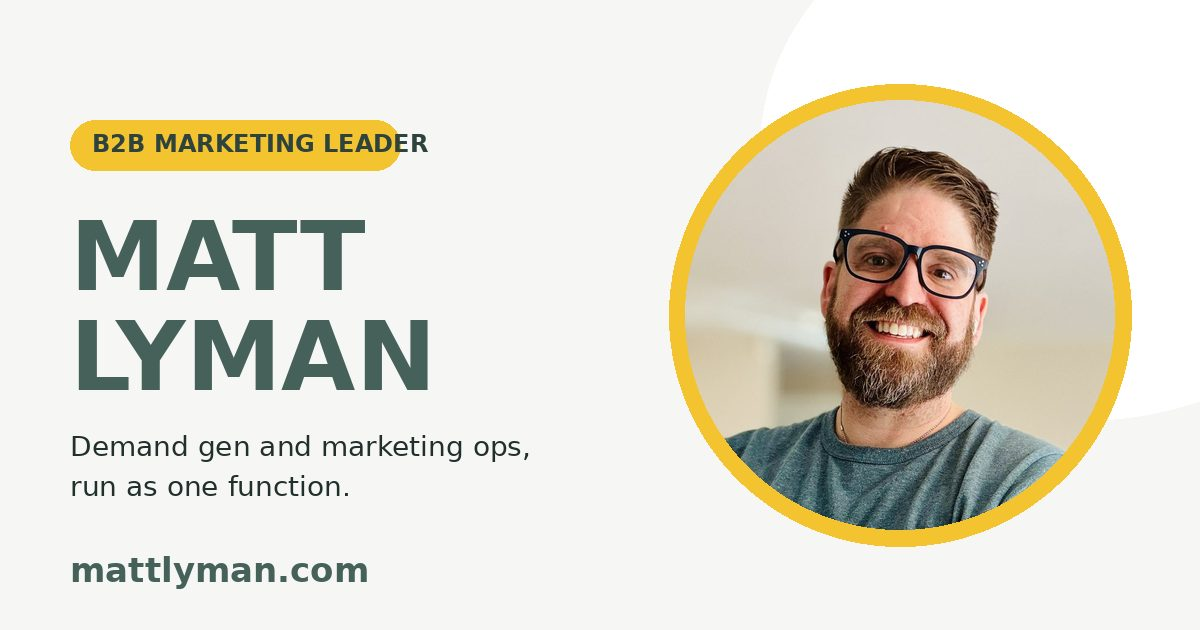
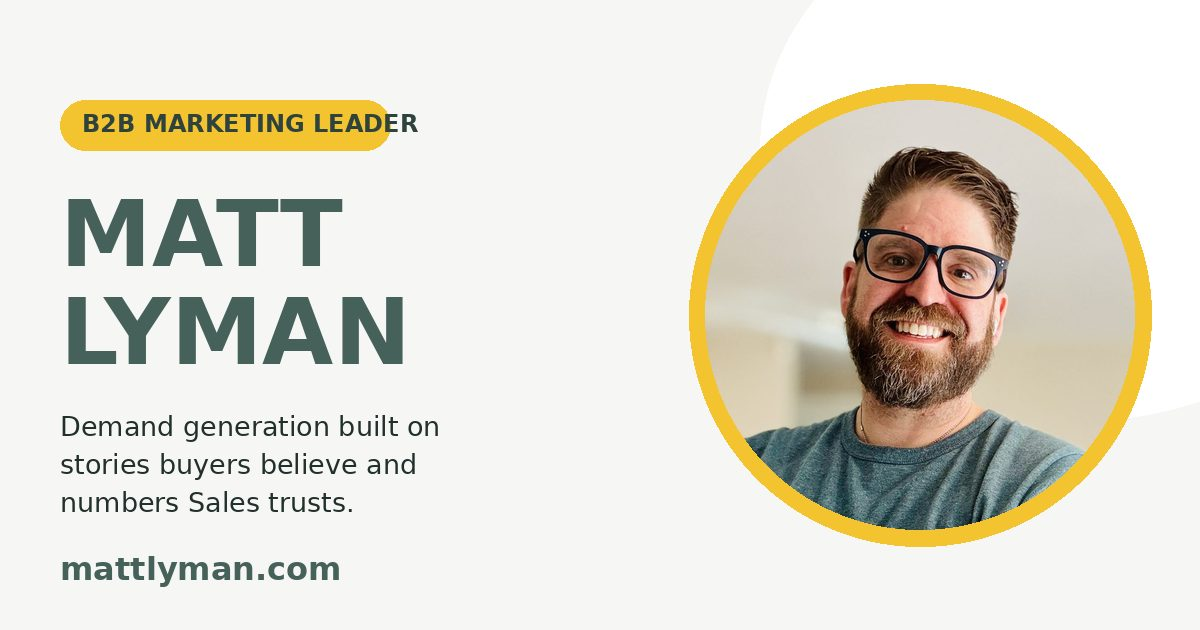
Sticky nav, About and AI copy rewrite, Chef title, unified skills layout
Claude-Session: https://claude.ai/code/session_01WRYQ3Ln2MV56FoJT3TQhna

diff --git a/index.html b/index.html
@@ -3,13 +3,13 @@
 <head>
 <meta charset="utf-8">
 <meta name="viewport" content="width=device-width, initial-scale=1">
-<title>Matt Lyman | B2B Marketing Leader, Demand Generation and Marketing Ops</title>
+<title>Matt Lyman | B2B Marketing Leader, Demand Generation</title>
 <meta name="description" content="Marketing leader with nearly 20 years in marketing. Most recently VP of Marketing at Flosum. Seattle, remote.">
 <link rel="canonical" href="https://mattlyman.com/">
 <meta name="author" content="Matt Lyman">
 <meta name="robots" content="index, follow, max-image-preview:large">
 <meta property="og:type" content="profile">
-<meta property="og:title" content="Matt Lyman | B2B Marketing Leader, Demand Generation and Marketing Ops">
+<meta property="og:title" content="Matt Lyman | B2B Marketing Leader, Demand Generation">
 <meta property="og:description" content="Marketing leader with nearly 20 years in marketing. Most recently VP of Marketing at Flosum. Seattle, remote.">
 <meta property="og:url" content="https://mattlyman.com/">
 <meta property="og:image" content="https://mattlyman.com/images/og-image.jpg">
@@ -19,7 +19,7 @@
 <meta property="profile:first_name" content="Matt">
 <meta property="profile:last_name" content="Lyman">
 <meta name="twitter:card" content="summary_large_image">
-<meta name="twitter:title" content="Matt Lyman | B2B Marketing Leader, Demand Generation and Marketing Ops">
+<meta name="twitter:title" content="Matt Lyman | B2B Marketing Leader, Demand Generation">
 <meta name="twitter:description" content="Marketing leader with nearly 20 years in marketing. Most recently VP of Marketing at Flosum. Seattle, remote.">
 <meta name="twitter:image" content="https://mattlyman.com/images/og-image.jpg">
 <link rel="icon" href="/favicon.svg" type="image/svg+xml">
@@ -45,7 +45,7 @@
    "@type": "ProfilePage",
    "@id": "https://mattlyman.com/#webpage",
    "url": "https://mattlyman.com/",
-   "name": "Matt Lyman | B2B Marketing Leader, Demand Generation and Marketing Ops",
+   "name": "Matt Lyman | B2B Marketing Leader, Demand Generation",
    "isPartOf": {
     "@id": "https://mattlyman.com/#website"
    },
@@ -64,7 +64,7 @@
    "url": "https://mattlyman.com/",
    "image": "https://mattlyman.com/images/matt-headshot.jpg",
    "jobTitle": "B2B Marketing Leader",
-   "description": "B2B marketing leader with nearly 20 years in marketing, specializing in demand generation and marketing operations. Most recently VP of Marketing at Flosum.",
+   "description": "B2B marketing leader with nearly 20 years in marketing, specializing in demand generation, with hands-on marketing operations and AI skills behind it. Most recently VP of Marketing at Flosum.",
    "address": {
     "@type": "PostalAddress",
     "addressLocality": "Seattle",
@@ -89,7 +89,9 @@
     "Lead scoring",
     "Marketing attribution",
     "B2B SaaS marketing",
-    "Team leadership"
+    "Team leadership",
+    "AI agents for marketing",
+    "Generative AI"
    ],
    "alumniOf": [
     {
@@ -220,7 +222,7 @@
      "name": "Who is Matt Lyman?",
      "acceptedAnswer": {
       "@type": "Answer",
-      "text": "Matt Lyman is a B2B marketing leader based in Seattle with nearly 20 years in marketing, specializing in demand generation and marketing operations. He has served as VP of Marketing at Flosum, VP of Demand Generation at LeanData, and Director of Demand Generation at Chef Software, where the revenue team grew about 2.7x through the company's acquisition by Progress."
+      "text": "Matt Lyman is a B2B marketing leader based in Seattle with nearly 20 years in marketing, specializing in demand generation, with hands-on marketing operations and AI skills behind it. He has served as VP of Marketing at Flosum, VP of Demand Generation at LeanData, and Director of Revenue Marketing at Chef Software, where the revenue team grew about 2.7x through the company's acquisition by Progress."
      }
     },
     {
@@ -228,7 +230,7 @@
      "name": "What does Matt Lyman do?",
      "acceptedAnswer": {
       "@type": "Answer",
-      "text": "He is a B2B marketing leader who runs demand generation and marketing operations as one function. He has built demand engines across paid media, ABM, SEO, events, and content at Chef, LeanData, and Flosum."
+      "text": "He is a B2B marketing leader who builds demand generation programs around buyer stories and the data to prove they work. He has built demand engines across paid media, ABM, SEO, events, and content at Chef, LeanData, and Flosum, and builds with AI every day."
      }
     },
     {
@@ -253,6 +255,14 @@
      "acceptedAnswer": {
       "@type": "Answer",
       "text": "At Flosum, Matt ran ABM across 51 named accounts and 10 AEs. Target accounts clicked at 3 to 7x the campaign average, and 7 became opportunities within five months. He also led an SEO and GEO/AEO rebuild with 120+ assets updated, rebuilt FAQs, and third-party authority placements, which took monthly search impressions from 70,000 to over one million."
+     }
+    },
+    {
+     "@type": "Question",
+     "name": "How does Matt use AI?",
+     "acceptedAnswer": {
+      "@type": "Answer",
+      "text": "Matt builds with AI every day. At Flosum he worked with product marketing on an agent that tracks competitor and industry news for Sales, built an ABM dashboard that pulls ad, intent, and site data into one view, set up an AI SDR, and rebuilt content for AI search (GEO/AEO)."
      }
     },
     {
@@ -304,8 +314,6 @@ a:hover{color:var(--slate-dk)}
 h1,h2,h3{font-family:Anton,Impact,"Arial Narrow",sans-serif;font-weight:400;letter-spacing:.01em;text-transform:uppercase;color:var(--slate);margin:0}
 h2{font-size:clamp(2rem,5vw,3rem);line-height:1.05;margin-bottom:.5em}
 p{margin:0 0 1em}
-.top{display:flex;justify-content:space-between;align-items:center;padding:18px 0}
-.top .brand{font:400 1.35rem Anton,Impact,sans-serif;letter-spacing:.04em;text-transform:uppercase;color:var(--slate);text-decoration:none}
 .btn{display:inline-block;font:700 .95rem Montserrat,sans-serif;padding:.8em 1.4em;border-radius:999px;text-decoration:none;border:2px solid var(--slate);transition:transform .15s,background .15s}
 .btn:hover{transform:translateY(-2px)}
 .btn.primary{background:var(--slate);color:#fff}
@@ -313,6 +321,20 @@ p{margin:0 0 1em}
 .btn.ghost{background:transparent;color:var(--slate)}
 .btn.ghost:hover{background:#fff}
 .pill{display:inline-block;background:var(--yellow);color:var(--slate-dk);font:700 .85rem Montserrat,sans-serif;letter-spacing:.06em;text-transform:uppercase;padding:.45em 1.1em;border-radius:999px}
+.nav{position:sticky;top:0;z-index:50;background:rgba(246,247,245,.93);-webkit-backdrop-filter:blur(8px);backdrop-filter:blur(8px);border-bottom:1px solid var(--line)}
+.navin{display:flex;align-items:center;gap:18px;padding-top:10px;padding-bottom:10px}
+.nav .brand{font:400 1.3rem Anton,Impact,sans-serif;letter-spacing:.04em;text-transform:uppercase;color:var(--slate);text-decoration:none;white-space:nowrap}
+.links{display:flex;gap:2px;list-style:none;margin:0 0 0 auto;padding:0;overflow-x:auto;scrollbar-width:none}
+.links::-webkit-scrollbar{display:none}
+.links a{display:block;padding:.45em .85em;border-radius:999px;font:600 .85rem Montserrat,sans-serif;color:var(--ink);text-decoration:none;white-space:nowrap}
+.links a:hover{background:#fff}
+.links a.active{background:var(--yellow);color:var(--slate-dk)}
+.nav .btn{padding:.5em 1.1em;font-size:.85rem;white-space:nowrap}
+section{scroll-margin-top:62px}
+.skl{margin:0;display:grid;gap:16px}
+.skl dt{font-size:.78rem;font-weight:700;letter-spacing:.06em;text-transform:uppercase;color:var(--muted)}
+.skl dd{margin:.15em 0 0;font-size:1rem;line-height:1.65}
+@media (max-width:820px){.navin{flex-wrap:wrap;gap:6px 12px}.nav .btn{margin-left:auto}.links{order:3;width:100%;margin:0}section{scroll-margin-top:100px}}
 /* hero */
 .hero{position:relative;overflow:hidden;padding:20px 0 56px}
 .hero:before,.hero:after{content:"";position:absolute;background:#fff;border-radius:50%;z-index:0}
@@ -400,13 +422,22 @@ footer{padding:28px 0 40px;font-size:.85rem;color:var(--muted);text-align:center
 @media (prefers-reduced-motion:reduce){html{scroll-behavior:auto}.btn{transition:none}}
 </style>
 </head>
-<body>
-<div class="wrap">
- <div class="top">
-  <a class="brand" href="/">Matt Lyman</a>
+<body id="top">
+<nav class="nav" aria-label="Page sections">
+ <div class="wrap navin">
+  <a class="brand" href="#top">Matt Lyman</a>
+  <ul class="links">
+   <li><a href="#about">About</a></li>
+   <li><a href="#proof">Work</a></li>
+   <li><a href="#community">Community</a></li>
+   <li><a href="#talks">Talks</a></li>
+   <li><a href="#people">Testimonials</a></li>
+   <li><a href="#skills">Skills</a></li>
+   <li><a href="#faq">FAQ</a></li>
+  </ul>
   <a class="btn ghost" href="https://www.linkedin.com/in/mattlyman" rel="me noopener">LinkedIn</a>
  </div>
-</div>
+</nav>
 
 <header class="hero">
  <div class="wrap">
@@ -414,7 +445,7 @@ footer{padding:28px 0 40px;font-size:.85rem;color:var(--muted);text-align:center
    <div>
     <span class="pill">B2B marketing leader</span>
     <h1>Matt Lyman</h1>
-    <p class="sub">Demand gen and marketing ops, run as one function.</p>
+    <p class="sub">Demand generation built on stories buyers believe and numbers Sales trusts.</p>
     <p>I fix pipeline. Not by throwing more budget at the top of the funnel, but by finding where it's actually broken: conversion rates, messaging that doesn't land, content that doesn't move buyers, and handoffs between Marketing, Sales, and Customer Success that leak revenue at every stage. Most recently VP of Marketing at Flosum. Seattle, remote.</p>
     <p class="community-line">Founder, R.I.D.E. 4 ALL. President, Highline Special Needs PTA.</p>
     <div class="cta">
@@ -445,10 +476,11 @@ footer{padding:28px 0 40px;font-size:.85rem;color:var(--muted);text-align:center
  <div class="wrap about">
   <div>
    <h2>About</h2>
-   <p class="lead">Matt Lyman is a B2B marketing leader based in Seattle with nearly 20 years in marketing, specializing in demand generation and marketing operations. He has served as VP of Marketing at Flosum, VP of Demand Generation at LeanData, and Director of Demand Generation at Chef Software, where the revenue team grew about 2.7x through the company's acquisition by Progress. He founded R.I.D.E. 4 ALL, a nonprofit for inclusive recreation, and is president of the Highline Special Needs PTA.</p>
-   <p>I dig into the data, review customer calls, and talk to the people who said yes and the ones who said no, then build programs around what I find. Across nearly 20 years in marketing, I've built demand engines at Chef, LeanData, and Flosum across paid media, ABM, SEO, events, and content.</p>
-   <p>Before software, I ran sales and marketing for a craft beer publication. I also have a degree in playwriting, and it shows. Every campaign I build starts with a story, a real one, about who the buyer is, what they're afraid of, and what changes if they solve the problem. I call it B2H, business to human, because at the end of every enterprise deal is a person making a decision. At Flosum, that meant scrapping product-first messaging and rebuilding the strategic narrative from the ground up.</p>
-   <p>The way I work: demand gen and ops as one function, not two. Clean infrastructure, reliable attribution, and pipeline numbers that Sales actually believes. I lead from alongside, not above. My job as a leader is to coach my team well enough that they can take my job, and then go find a bigger one.</p>
+   <p class="lead">Matt Lyman is a B2B marketing leader based in Seattle with nearly 20 years in marketing, specializing in demand generation, with hands-on marketing operations and AI skills behind it. He has served as VP of Marketing at Flosum, VP of Demand Generation at LeanData, and Director of Revenue Marketing at Chef Software, where the revenue team grew about 2.7x through the company's acquisition by Progress. He founded R.I.D.E. 4 ALL, a nonprofit for inclusive recreation, and is president of the Highline Special Needs PTA.</p>
+   <p>I review customer calls, talk to the people who said yes and the ones who said no, and build programs around what I find. Nearly 20 years in marketing, most recently at Chef, LeanData, and Flosum. At LeanData, marketing's share of new business pipeline went from 18% to 50% while demand gen spend dropped 41%. At Flosum, cost per paid MQL fell 87% in six months and monthly search impressions grew from 70,000 to over a million.</p>
+   <p>Before software, I ran sales and marketing for a craft beer publication. I also have a degree in playwriting, and it shows. Every campaign I build starts with a story, a real one, about who the buyer is, what they're afraid of, and what changes if they solve the problem. I call it B2H, business to human, because at the end of every enterprise deal is a person making a decision. At Flosum, that meant scrapping product-first messaging and rebuilding the strategic narrative from the ground up. Then I make sure the numbers behind it are ones Sales believes.</p>
+   <p>I build with AI every day. At Flosum I worked with product marketing on an agent that tracks competitor and industry news and hands Sales what changed, built an ABM dashboard that pulled ad, intent, and site data into one view across 51 accounts, set up our AI SDR, and rebuilt our content for AI search.</p>
+   <p>I lead from alongside, not above. My job is to coach my team well enough that they can take my job and go find a bigger one.</p>
   </div>
   <figure class="photo-fig">
    <div class="photo"><img src="/images/matt-cycling.jpg" width="900" height="1200" loading="lazy" alt="Matt Lyman in a yellow cycling jersey and blue helmet, riding into low sun"></div>
@@ -470,6 +502,7 @@ footer{padding:28px 0 40px;font-size:.85rem;color:var(--muted);text-align:center
      <li>Meetings from paid up 467%.</li>
      <li>Monthly search impressions went from 70,000 to over one million, up 1,329%, through the SEO and GEO/AEO rebuild: 120+ assets updated, FAQ rebuilds, third-party authority placements.</li>
      <li>ABM across 51 named accounts and 10 AEs. Target accounts clicked at 3 to 7x the campaign average, and 7 became opportunities within five months, mostly through BDR meetings.</li>
+     <li>Built an agent with product marketing that tracks competitor and industry news and hands Sales what changed, and an ABM dashboard that pulls ad, intent, and site data into one view. Also set up the AI SDR.</li>
     </ul>
    </article>
    <article class="role">
@@ -486,7 +519,7 @@ footer{padding:28px 0 40px;font-size:.85rem;color:var(--muted);text-align:center
    </article>
    <article class="role">
     <header><h3>Chef Software</h3><span class="when">2015 to 2022</span></header>
-    <p class="title">Director of Demand Generation at exit</p>
+    <p class="title">Director of Revenue Marketing at exit</p>
     <p class="scope">Ran demand gen, ops, web, and SDR teams. Team of 7. Joined the business unit leadership team after Progress acquired Chef.</p>
     <ul>
      <li>Revenue team grew about 2.7x through the acquisition, with quarterly pipeline goals beaten by 4x or more.</li>
@@ -556,19 +589,23 @@ footer{padding:28px 0 40px;font-size:.85rem;color:var(--muted);text-align:center
 <section id="skills" class="alt">
  <div class="wrap skills">
   <h2>Skills and tools</h2>
-  <p>Marketing leadership, demand generation, marketing operations, ABM, paid media, SEO and GEO/AEO, messaging and narrative, lifecycle and lead scoring, attribution, sales and BDR alignment, product and category launches, events.</p>
-  <p class="small">Marketo, HubSpot, Eloqua, Pardot, Salesforce, LeanData, Qualified, Outreach, Salesloft, Demandbase, 6sense, UserGems, Intellimize. MBA, Global Marketing Management. Six Sigma Green Belt. Franklin Covey and Dale Carnegie leadership training.</p>
+  <dl class="skl">
+   <div><dt>Focus</dt><dd>Marketing leadership, demand generation, ABM, paid media, SEO and GEO/AEO, AI workflows and agents, messaging and narrative, lifecycle and lead scoring, attribution, marketing operations, sales and BDR alignment, product and category launches, events.</dd></div>
+   <div><dt>Tools</dt><dd>Marketo, HubSpot, Eloqua, Pardot, Salesforce, LeanData, Qualified, Outreach, Salesloft, Demandbase, 6sense, UserGems, Intellimize, Claude, ChatGPT.</dd></div>
+   <div><dt>Training</dt><dd>MBA, Global Marketing Management. Six Sigma Green Belt. Franklin Covey and Dale Carnegie leadership training.</dd></div>
+  </dl>
  </div>
 </section>
 
 <section id="faq">
  <div class="wrap">
   <h2>Questions people ask</h2>
-  <details><summary>Who is Matt Lyman?</summary><p>Matt Lyman is a B2B marketing leader based in Seattle with nearly 20 years in marketing, specializing in demand generation and marketing operations. He has served as VP of Marketing at Flosum, VP of Demand Generation at LeanData, and Director of Demand Generation at Chef Software, where the revenue team grew about 2.7x through the company&#x27;s acquisition by Progress.</p></details>
-<details><summary>What does Matt Lyman do?</summary><p>He is a B2B marketing leader who runs demand generation and marketing operations as one function. He has built demand engines across paid media, ABM, SEO, events, and content at Chef, LeanData, and Flosum.</p></details>
+  <details><summary>Who is Matt Lyman?</summary><p>Matt Lyman is a B2B marketing leader based in Seattle with nearly 20 years in marketing, specializing in demand generation, with hands-on marketing operations and AI skills behind it. He has served as VP of Marketing at Flosum, VP of Demand Generation at LeanData, and Director of Revenue Marketing at Chef Software, where the revenue team grew about 2.7x through the company&#x27;s acquisition by Progress.</p></details>
+<details><summary>What does Matt Lyman do?</summary><p>He is a B2B marketing leader who builds demand generation programs around buyer stories and the data to prove they work. He has built demand engines across paid media, ABM, SEO, events, and content at Chef, LeanData, and Flosum, and builds with AI every day.</p></details>
 <details><summary>What is B2H?</summary><p>Business to human is Matt&#x27;s approach to B2B marketing. Every campaign starts with a real story about who the buyer is and what they&#x27;re afraid of, because a person makes the decision at the end of every enterprise deal.</p></details>
 <details><summary>What results has Matt driven?</summary><p>At LeanData, marketing&#x27;s share of new business pipeline went from 18% to 50% while demand gen spend fell 41%. At Flosum, cost per paid MQL fell 87% in six months and monthly search impressions grew 1,329%.</p></details>
 <details><summary>What is Matt&#x27;s experience with ABM and GEO/AEO?</summary><p>At Flosum, Matt ran ABM across 51 named accounts and 10 AEs. Target accounts clicked at 3 to 7x the campaign average, and 7 became opportunities within five months. He also led an SEO and GEO/AEO rebuild with 120+ assets updated, rebuilt FAQs, and third-party authority placements, which took monthly search impressions from 70,000 to over one million.</p></details>
+<details><summary>How does Matt use AI?</summary><p>Matt builds with AI every day. At Flosum he worked with product marketing on an agent that tracks competitor and industry news for Sales, built an ABM dashboard that pulls ad, intent, and site data into one view, set up an AI SDR, and rebuilt content for AI search (GEO/AEO).</p></details>
 <details><summary>What roles is Matt open to?</summary><p>Matt is open to VP, Head of, and Senior Director roles in marketing, demand generation, and growth at growth-stage B2B software companies.</p></details>
 <details><summary>What does Matt do outside of marketing?</summary><p>He founded R.I.D.E. 4 ALL, a nonprofit for inclusive recreation, and is president of the Highline Special Needs PTA. He also rides bikes, a lot.</p></details>
 <details><summary>Where can I hear Matt talk about marketing and leadership?</summary><p>Matt has been a guest on Marketers of Technology, Straight To Voicemail, Content Matters, The Hype Within, and Everything&#x27;s Coming Up Marketing, and gave a Finovate talk on LeanData&#x27;s revenue orchestration platform. Links to each are in the Talks and podcasts section of this page.</p></details>
@@ -591,5 +628,8 @@ footer{padding:28px 0 40px;font-size:.85rem;color:var(--muted);text-align:center
 </section>
 
 <footer><div class="wrap">&copy; 2026 Matt Lyman. Seattle, WA.</div></footer>
+<script>
+(function(){try{var links=[].slice.call(document.querySelectorAll('.links a')),map={};links.forEach(function(a){map[a.getAttribute('href').slice(1)]=a});var secs=Object.keys(map).map(function(id){return document.getElementById(id)}).filter(Boolean);if(!('IntersectionObserver' in window))return;var io=new IntersectionObserver(function(es){es.forEach(function(e){if(e.isIntersecting){links.forEach(function(a){a.classList.remove('active')});map[e.target.id].classList.add('active')}})},{rootMargin:'-45% 0px -50% 0px'});secs.forEach(function(x){io.observe(x)})}catch(e){}})();
+</script>
 </body>
 </html>

diff --git a/tools/build_site.py b/tools/build_site.py
@@ -5,11 +5,12 @@ LI="https://www.linkedin.com/in/mattlyman"
 e=html.escape
 
 faq=[
-("Who is Matt Lyman?","Matt Lyman is a B2B marketing leader based in Seattle with nearly 20 years in marketing, specializing in demand generation and marketing operations. He has served as VP of Marketing at Flosum, VP of Demand Generation at LeanData, and Director of Demand Generation at Chef Software, where the revenue team grew about 2.7x through the company's acquisition by Progress."),
-("What does Matt Lyman do?","He is a B2B marketing leader who runs demand generation and marketing operations as one function. He has built demand engines across paid media, ABM, SEO, events, and content at Chef, LeanData, and Flosum."),
+("Who is Matt Lyman?","Matt Lyman is a B2B marketing leader based in Seattle with nearly 20 years in marketing, specializing in demand generation, with hands-on marketing operations and AI skills behind it. He has served as VP of Marketing at Flosum, VP of Demand Generation at LeanData, and Director of Revenue Marketing at Chef Software, where the revenue team grew about 2.7x through the company's acquisition by Progress."),
+("What does Matt Lyman do?","He is a B2B marketing leader who builds demand generation programs around buyer stories and the data to prove they work. He has built demand engines across paid media, ABM, SEO, events, and content at Chef, LeanData, and Flosum, and builds with AI every day."),
 ("What is B2H?","Business to human is Matt's approach to B2B marketing. Every campaign starts with a real story about who the buyer is and what they're afraid of, because a person makes the decision at the end of every enterprise deal."),
 ("What results has Matt driven?","At LeanData, marketing's share of new business pipeline went from 18% to 50% while demand gen spend fell 41%. At Flosum, cost per paid MQL fell 87% in six months and monthly search impressions grew 1,329%."),
 ("What is Matt's experience with ABM and GEO/AEO?","At Flosum, Matt ran ABM across 51 named accounts and 10 AEs. Target accounts clicked at 3 to 7x the campaign average, and 7 became opportunities within five months. He also led an SEO and GEO/AEO rebuild with 120+ assets updated, rebuilt FAQs, and third-party authority placements, which took monthly search impressions from 70,000 to over one million."),
+("How does Matt use AI?","Matt builds with AI every day. At Flosum he worked with product marketing on an agent that tracks competitor and industry news for Sales, built an ABM dashboard that pulls ad, intent, and site data into one view, set up an AI SDR, and rebuilt content for AI search (GEO/AEO)."),
 ("What roles is Matt open to?","Matt is open to VP, Head of, and Senior Director roles in marketing, demand generation, and growth at growth-stage B2B software companies."),
 ("What does Matt do outside of marketing?","He founded R.I.D.E. 4 ALL, a nonprofit for inclusive recreation, and is president of the Highline Special Needs PTA. He also rides bikes, a lot."),
 ("Where can I hear Matt talk about marketing and leadership?","Matt has been a guest on Marketers of Technology, Straight To Voicemail, Content Matters, The Hype Within, and Everything's Coming Up Marketing, and gave a Finovate talk on LeanData's revenue orchestration platform. Links to each are in the Talks and podcasts section of this page."),
@@ -45,11 +46,11 @@ faq_html="\n".join(f'<details><summary>{e(q)}</summary><p>{e(a)}</p></details>' 
 
 jsonld={"@context":"https://schema.org","@graph":[
  {"@type":"WebSite","@id":SITE+"/#website","url":SITE+"/","name":"Matt Lyman","inLanguage":"en-US","publisher":{"@id":SITE+"/#person"}},
- {"@type":"ProfilePage","@id":SITE+"/#webpage","url":SITE+"/","name":"Matt Lyman | B2B Marketing Leader, Demand Generation and Marketing Ops","isPartOf":{"@id":SITE+"/#website"},"about":{"@id":SITE+"/#person"},"mainEntity":{"@id":SITE+"/#person"},"inLanguage":"en-US"},
- {"@type":"Person","@id":SITE+"/#person","name":"Matt Lyman","url":SITE+"/","image":SITE+"/images/matt-headshot.jpg","jobTitle":"B2B Marketing Leader","description":"B2B marketing leader with nearly 20 years in marketing, specializing in demand generation and marketing operations. Most recently VP of Marketing at Flosum.",
+ {"@type":"ProfilePage","@id":SITE+"/#webpage","url":SITE+"/","name":"Matt Lyman | B2B Marketing Leader, Demand Generation","isPartOf":{"@id":SITE+"/#website"},"about":{"@id":SITE+"/#person"},"mainEntity":{"@id":SITE+"/#person"},"inLanguage":"en-US"},
+ {"@type":"Person","@id":SITE+"/#person","name":"Matt Lyman","url":SITE+"/","image":SITE+"/images/matt-headshot.jpg","jobTitle":"B2B Marketing Leader","description":"B2B marketing leader with nearly 20 years in marketing, specializing in demand generation, with hands-on marketing operations and AI skills behind it. Most recently VP of Marketing at Flosum.",
   "address":{"@type":"PostalAddress","addressLocality":"Seattle","addressRegion":"WA","addressCountry":"US"},
   "sameAs":[LI,"https://www.ride4all.org"],
-  "knowsAbout":["Demand generation","Marketing operations","Account-based marketing","Paid media","SEO","Generative engine optimization","Answer engine optimization","Marketo","HubSpot","Salesforce","Lead scoring","Marketing attribution","B2B SaaS marketing","Team leadership"],
+  "knowsAbout":["Demand generation","Marketing operations","Account-based marketing","Paid media","SEO","Generative engine optimization","Answer engine optimization","Marketo","HubSpot","Salesforce","Lead scoring","Marketing attribution","B2B SaaS marketing","Team leadership","AI agents for marketing","Generative AI"],
   "alumniOf":[
     {"@type":"Organization","name":"Flosum"},
     {"@type":"Organization","name":"LeanData"},
@@ -63,7 +64,7 @@ jsonld={"@context":"https://schema.org","@graph":[
 ]}
 ld=json.dumps(jsonld,indent=1,ensure_ascii=False)
 
-TITLE="Matt Lyman | B2B Marketing Leader, Demand Generation and Marketing Ops"
+TITLE="Matt Lyman | B2B Marketing Leader, Demand Generation"
 DESC="Marketing leader with nearly 20 years in marketing. Most recently VP of Marketing at Flosum. Seattle, remote."
 
 page=f'''<!doctype html>
@@ -110,8 +111,6 @@ a:hover{{color:var(--slate-dk)}}
 h1,h2,h3{{font-family:Anton,Impact,"Arial Narrow",sans-serif;font-weight:400;letter-spacing:.01em;text-transform:uppercase;color:var(--slate);margin:0}}
 h2{{font-size:clamp(2rem,5vw,3rem);line-height:1.05;margin-bottom:.5em}}
 p{{margin:0 0 1em}}
-.top{{display:flex;justify-content:space-between;align-items:center;padding:18px 0}}
-.top .brand{{font:400 1.35rem Anton,Impact,sans-serif;letter-spacing:.04em;text-transform:uppercase;color:var(--slate);text-decoration:none}}
 .btn{{display:inline-block;font:700 .95rem Montserrat,sans-serif;padding:.8em 1.4em;border-radius:999px;text-decoration:none;border:2px solid var(--slate);transition:transform .15s,background .15s}}
 .btn:hover{{transform:translateY(-2px)}}
 .btn.primary{{background:var(--slate);color:#fff}}
@@ -119,6 +118,20 @@ p{{margin:0 0 1em}}
 .btn.ghost{{background:transparent;color:var(--slate)}}
 .btn.ghost:hover{{background:#fff}}
 .pill{{display:inline-block;background:var(--yellow);color:var(--slate-dk);font:700 .85rem Montserrat,sans-serif;letter-spacing:.06em;text-transform:uppercase;padding:.45em 1.1em;border-radius:999px}}
+.nav{{position:sticky;top:0;z-index:50;background:rgba(246,247,245,.93);-webkit-backdrop-filter:blur(8px);backdrop-filter:blur(8px);border-bottom:1px solid var(--line)}}
+.navin{{display:flex;align-items:center;gap:18px;padding-top:10px;padding-bottom:10px}}
+.nav .brand{{font:400 1.3rem Anton,Impact,sans-serif;letter-spacing:.04em;text-transform:uppercase;color:var(--slate);text-decoration:none;white-space:nowrap}}
+.links{{display:flex;gap:2px;list-style:none;margin:0 0 0 auto;padding:0;overflow-x:auto;scrollbar-width:none}}
+.links::-webkit-scrollbar{{display:none}}
+.links a{{display:block;padding:.45em .85em;border-radius:999px;font:600 .85rem Montserrat,sans-serif;color:var(--ink);text-decoration:none;white-space:nowrap}}
+.links a:hover{{background:#fff}}
+.links a.active{{background:var(--yellow);color:var(--slate-dk)}}
+.nav .btn{{padding:.5em 1.1em;font-size:.85rem;white-space:nowrap}}
+section{{scroll-margin-top:62px}}
+.skl{{margin:0;display:grid;gap:16px}}
+.skl dt{{font-size:.78rem;font-weight:700;letter-spacing:.06em;text-transform:uppercase;color:var(--muted)}}
+.skl dd{{margin:.15em 0 0;font-size:1rem;line-height:1.65}}
+@media (max-width:820px){{.navin{{flex-wrap:wrap;gap:6px 12px}}.nav .btn{{margin-left:auto}}.links{{order:3;width:100%;margin:0}}section{{scroll-margin-top:100px}}}}
 /* hero */
 .hero{{position:relative;overflow:hidden;padding:20px 0 56px}}
 .hero:before,.hero:after{{content:"";position:absolute;background:#fff;border-radius:50%;z-index:0}}
@@ -206,13 +219,22 @@ footer{{padding:28px 0 40px;font-size:.85rem;color:var(--muted);text-align:cente
 @media (prefers-reduced-motion:reduce){{html{{scroll-behavior:auto}}.btn{{transition:none}}}}
 </style>
 </head>
-<body>
-<div class="wrap">
- <div class="top">
-  <a class="brand" href="/">Matt Lyman</a>
+<body id="top">
+<nav class="nav" aria-label="Page sections">
+ <div class="wrap navin">
+  <a class="brand" href="#top">Matt Lyman</a>
+  <ul class="links">
+   <li><a href="#about">About</a></li>
+   <li><a href="#proof">Work</a></li>
+   <li><a href="#community">Community</a></li>
+   <li><a href="#talks">Talks</a></li>
+   <li><a href="#people">Testimonials</a></li>
+   <li><a href="#skills">Skills</a></li>
+   <li><a href="#faq">FAQ</a></li>
+  </ul>
   <a class="btn ghost" href="{LI}" rel="me noopener">LinkedIn</a>
  </div>
-</div>
+</nav>
 
 <header class="hero">
  <div class="wrap">
@@ -220,7 +242,7 @@ footer{{padding:28px 0 40px;font-size:.85rem;color:var(--muted);text-align:cente
    <div>
     <span class="pill">B2B marketing leader</span>
     <h1>Matt Lyman</h1>
-    <p class="sub">Demand gen and marketing ops, run as one function.</p>
+    <p class="sub">Demand generation built on stories buyers believe and numbers Sales trusts.</p>
     <p>I fix pipeline. Not by throwing more budget at the top of the funnel, but by finding where it's actually broken: conversion rates, messaging that doesn't land, content that doesn't move buyers, and handoffs between Marketing, Sales, and Customer Success that leak revenue at every stage. Most recently VP of Marketing at Flosum. Seattle, remote.</p>
     <p class="community-line">Founder, R.I.D.E. 4 ALL. President, Highline Special Needs PTA.</p>
     <div class="cta">
@@ -251,10 +273,11 @@ footer{{padding:28px 0 40px;font-size:.85rem;color:var(--muted);text-align:cente
  <div class="wrap about">
   <div>
    <h2>About</h2>
-   <p class="lead">Matt Lyman is a B2B marketing leader based in Seattle with nearly 20 years in marketing, specializing in demand generation and marketing operations. He has served as VP of Marketing at Flosum, VP of Demand Generation at LeanData, and Director of Demand Generation at Chef Software, where the revenue team grew about 2.7x through the company's acquisition by Progress. He founded R.I.D.E. 4 ALL, a nonprofit for inclusive recreation, and is president of the Highline Special Needs PTA.</p>
-   <p>I dig into the data, review customer calls, and talk to the people who said yes and the ones who said no, then build programs around what I find. Across nearly 20 years in marketing, I've built demand engines at Chef, LeanData, and Flosum across paid media, ABM, SEO, events, and content.</p>
-   <p>Before software, I ran sales and marketing for a craft beer publication. I also have a degree in playwriting, and it shows. Every campaign I build starts with a story, a real one, about who the buyer is, what they're afraid of, and what changes if they solve the problem. I call it B2H, business to human, because at the end of every enterprise deal is a person making a decision. At Flosum, that meant scrapping product-first messaging and rebuilding the strategic narrative from the ground up.</p>
-   <p>The way I work: demand gen and ops as one function, not two. Clean infrastructure, reliable attribution, and pipeline numbers that Sales actually believes. I lead from alongside, not above. My job as a leader is to coach my team well enough that they can take my job, and then go find a bigger one.</p>
+   <p class="lead">Matt Lyman is a B2B marketing leader based in Seattle with nearly 20 years in marketing, specializing in demand generation, with hands-on marketing operations and AI skills behind it. He has served as VP of Marketing at Flosum, VP of Demand Generation at LeanData, and Director of Revenue Marketing at Chef Software, where the revenue team grew about 2.7x through the company's acquisition by Progress. He founded R.I.D.E. 4 ALL, a nonprofit for inclusive recreation, and is president of the Highline Special Needs PTA.</p>
+   <p>I review customer calls, talk to the people who said yes and the ones who said no, and build programs around what I find. Nearly 20 years in marketing, most recently at Chef, LeanData, and Flosum. At LeanData, marketing's share of new business pipeline went from 18% to 50% while demand gen spend dropped 41%. At Flosum, cost per paid MQL fell 87% in six months and monthly search impressions grew from 70,000 to over a million.</p>
+   <p>Before software, I ran sales and marketing for a craft beer publication. I also have a degree in playwriting, and it shows. Every campaign I build starts with a story, a real one, about who the buyer is, what they're afraid of, and what changes if they solve the problem. I call it B2H, business to human, because at the end of every enterprise deal is a person making a decision. At Flosum, that meant scrapping product-first messaging and rebuilding the strategic narrative from the ground up. Then I make sure the numbers behind it are ones Sales believes.</p>
+   <p>I build with AI every day. At Flosum I worked with product marketing on an agent that tracks competitor and industry news and hands Sales what changed, built an ABM dashboard that pulled ad, intent, and site data into one view across 51 accounts, set up our AI SDR, and rebuilt our content for AI search.</p>
+   <p>I lead from alongside, not above. My job is to coach my team well enough that they can take my job and go find a bigger one.</p>
   </div>
   <figure class="photo-fig">
    <div class="photo"><img src="/images/matt-cycling.jpg" width="900" height="1200" loading="lazy" alt="Matt Lyman in a yellow cycling jersey and blue helmet, riding into low sun"></div>
@@ -276,6 +299,7 @@ footer{{padding:28px 0 40px;font-size:.85rem;color:var(--muted);text-align:cente
      <li>Meetings from paid up 467%.</li>
      <li>Monthly search impressions went from 70,000 to over one million, up 1,329%, through the SEO and GEO/AEO rebuild: 120+ assets updated, FAQ rebuilds, third-party authority placements.</li>
      <li>ABM across 51 named accounts and 10 AEs. Target accounts clicked at 3 to 7x the campaign average, and 7 became opportunities within five months, mostly through BDR meetings.</li>
+     <li>Built an agent with product marketing that tracks competitor and industry news and hands Sales what changed, and an ABM dashboard that pulls ad, intent, and site data into one view. Also set up the AI SDR.</li>
     </ul>
    </article>
    <article class="role">
@@ -292,7 +316,7 @@ footer{{padding:28px 0 40px;font-size:.85rem;color:var(--muted);text-align:cente
    </article>
    <article class="role">
     <header><h3>Chef Software</h3><span class="when">2015 to 2022</span></header>
-    <p class="title">Director of Demand Generation at exit</p>
+    <p class="title">Director of Revenue Marketing at exit</p>
     <p class="scope">Ran demand gen, ops, web, and SDR teams. Team of 7. Joined the business unit leadership team after Progress acquired Chef.</p>
     <ul>
      <li>Revenue team grew about 2.7x through the acquisition, with quarterly pipeline goals beaten by 4x or more.</li>
@@ -357,8 +381,11 @@ footer{{padding:28px 0 40px;font-size:.85rem;color:var(--muted);text-align:cente
 <section id="skills" class="alt">
  <div class="wrap skills">
   <h2>Skills and tools</h2>
-  <p>Marketing leadership, demand generation, marketing operations, ABM, paid media, SEO and GEO/AEO, messaging and narrative, lifecycle and lead scoring, attribution, sales and BDR alignment, product and category launches, events.</p>
-  <p class="small">Marketo, HubSpot, Eloqua, Pardot, Salesforce, LeanData, Qualified, Outreach, Salesloft, Demandbase, 6sense, UserGems, Intellimize. MBA, Global Marketing Management. Six Sigma Green Belt. Franklin Covey and Dale Carnegie leadership training.</p>
+  <dl class="skl">
+   <div><dt>Focus</dt><dd>Marketing leadership, demand generation, ABM, paid media, SEO and GEO/AEO, AI workflows and agents, messaging and narrative, lifecycle and lead scoring, attribution, marketing operations, sales and BDR alignment, product and category launches, events.</dd></div>
+   <div><dt>Tools</dt><dd>Marketo, HubSpot, Eloqua, Pardot, Salesforce, LeanData, Qualified, Outreach, Salesloft, Demandbase, 6sense, UserGems, Intellimize, Claude, ChatGPT.</dd></div>
+   <div><dt>Training</dt><dd>MBA, Global Marketing Management. Six Sigma Green Belt. Franklin Covey and Dale Carnegie leadership training.</dd></div>
+  </dl>
  </div>
 </section>
 
@@ -384,6 +411,9 @@ footer{{padding:28px 0 40px;font-size:.85rem;color:var(--muted);text-align:cente
 </section>
 
 <footer><div class="wrap">&copy; 2026 Matt Lyman. Seattle, WA.</div></footer>
+<script>
+(function(){{try{{var links=[].slice.call(document.querySelectorAll('.links a')),map={{}};links.forEach(function(a){{map[a.getAttribute('href').slice(1)]=a}});var secs=Object.keys(map).map(function(id){{return document.getElementById(id)}}).filter(Boolean);if(!('IntersectionObserver' in window))return;var io=new IntersectionObserver(function(es){{es.forEach(function(e){{if(e.isIntersecting){{links.forEach(function(a){{a.classList.remove('active')}});map[e.target.id].classList.add('active')}}}})}},{{rootMargin:'-45% 0px -50% 0px'}});secs.forEach(function(x){{io.observe(x)}})}}catch(e){{}}}})();
+</script>
 </body>
 </html>
 '''
@@ -399,10 +429,10 @@ open(f"{OUT}/robots.txt","w").write(robots)
 open(f"{OUT}/sitemap.xml","w").write(f'<?xml version="1.0" encoding="UTF-8"?>\n<urlset xmlns="http://www.sitemaps.org/schemas/sitemap/0.9">\n <url><loc>{SITE}/</loc><lastmod>2026-10-29</lastmod><changefreq>monthly</changefreq><priority>1.0</priority></url>\n</urlset>\n')
 llms=f"""# Matt Lyman
 
-> B2B marketing leader based in Seattle with nearly 20 years in marketing, specializing in demand generation and marketing operations. Most recently VP of Marketing at Flosum. Open to VP and Head-of marketing roles.
+> B2B marketing leader based in Seattle with nearly 20 years in marketing, specializing in demand generation, with hands-on marketing operations and AI skills behind it. Most recently VP of Marketing at Flosum. Open to VP and Head-of marketing roles.
 
 ## Summary
-- Roles: VP of Marketing at Flosum (Apr 2025 to Jun 2026); VP of Demand Generation at LeanData (Feb 2022 to Nov 2024); Director of Demand Generation at Chef Software (2015 to 2022, acquired by Progress).
+- Roles: VP of Marketing at Flosum (Apr 2025 to Jun 2026); VP of Demand Generation at LeanData (Feb 2022 to Nov 2024); Director of Revenue Marketing at Chef Software (2015 to 2022, acquired by Progress).
 - LeanData: marketing's share of new business pipeline went from 18% to 50% while demand gen spend fell 41%.
 - Flosum: cost per paid MQL down 87% in six months; meetings from paid up 467%; monthly search impressions up 1,329% after an SEO and GEO/AEO rebuild.
 - Chef: revenue team grew about 2.7x through acquisition by Progress; SDR and BDR teams averaged 120%+ of quota.
